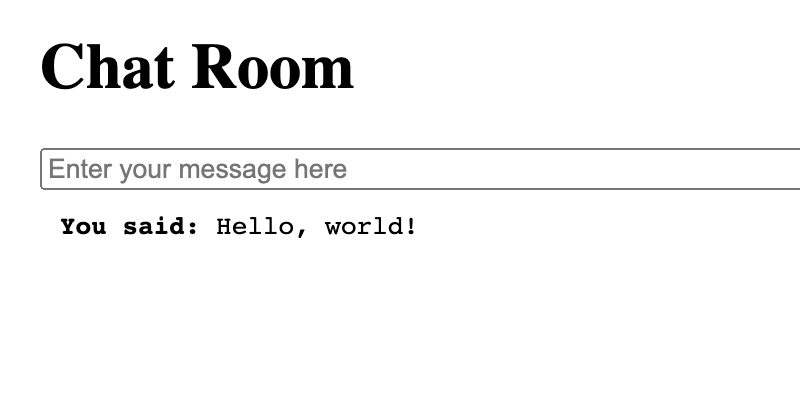
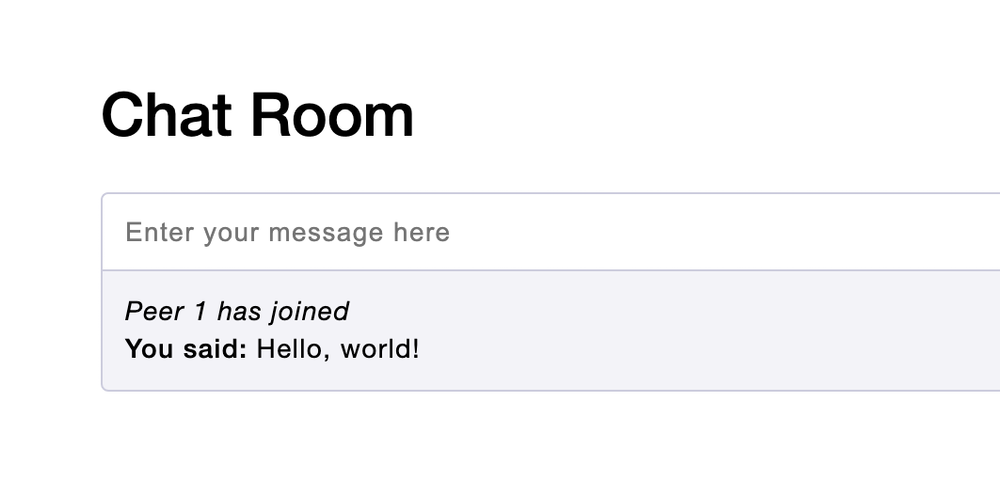
Rework the templates to be much nicer looking

diff --git a/static/templates/microblog-feed/index.html b/static/templates/microblog-feed/index.html
@@ -2,77 +2,7 @@
 <html>
   <head>
     <link rel="icon" type="image/png" sizes="32x32" href="/thumb.png">
-    <style>
-      body {
-        max-width: 680px;
-        margin: 0 auto;
-      }
-      microblog-composer {
-        display: block;
-        width: 500px;
-      }
-      microblog-composer p {
-        margin: 0 0 5px;
-      }
-      microblog-composer textarea,
-      microblog-composer input {
-        padding: 5px;
-      }
-      microblog-composer input {
-        margin-right: 10px;
-        border: 1px solid #bbb;
-      }
-      microblog-composer textarea {
-        width: 100%;
-        min-height: 60px;
-        box-sizing: border-box;
-      }
-      microblog-feed {
-        display: block;
-        margin: 1em 0;
-      }
-      .post {
-        display: grid;
-        grid-gap: 0;
-        grid-template-columns: 60px 1fr;
-        grid-template-rows: auto auto;
-        margin-bottom: 20px;
-      }
-      .post h1 { font-size: 21px; }
-      .post h2 { font-size: 20px; }
-      .post h3 { font-size: 19px; }
-      .post h4 { font-size: 18px; }
-      .post h5 { font-size: 17px; }
-      .post h6 { font-size: 16px; }
-      .post .thumb {
-        grid-row-start: 1;
-        grid-row-end: 3;
-      }
-      .post .thumb img {
-        width: 50px;
-        height: 50px;
-        object-fit: cover;
-      }
-      .post .meta {
-        margin-bottom: 5px;
-      }
-      .post .content {
-        min-height: 26px;
-      }
-      .post iframe.content {
-        width: 100%;
-      }
-      .post .content > * {
-        margin: 0;
-      }
-      .post .content > * + * {
-        margin-top: 1rem;
-      }
-      .post .content img,
-      .post .content video {
-        max-width: 100%;
-      }
-    </style>
+    <link rel="stylesheet" href="/index.css">
   </head>
   <body>
     <h1>My Feed</h1>

diff --git a/static/templates/microblog-feed/index.css b/static/templates/microblog-feed/index.css
@@ -1,0 +1,93 @@
+body {
+  max-width: 680px;
+  margin: 0 auto;
+  font-family: 'Segoe UI', Roboto, Oxygen, Ubuntu, Cantarell, 'Open Sans', 'Helvetica Neue', sans-serif;
+}
+a { text-decoration: none; }
+a:hover { text-decoration: underline; }
+h1 { font-weight: 500; }
+
+microblog-composer {
+  display: block;
+  margin-bottom: 30px;
+}
+microblog-composer p {
+  margin: 0 0 5px;
+}
+microblog-composer textarea,
+microblog-composer input {
+  font-family: inherit;
+  border: 1px solid #888;
+  border-radius: 3px;
+}
+microblog-composer input {
+  margin-right: 10px;
+  padding: 5px 10px;
+}
+microblog-composer textarea {
+  width: 100%;
+  min-height: 80px;
+  box-sizing: border-box;
+  padding: 10px;
+  resize: vertical;
+  line-height: 1.3;
+  font-size: 15px;
+}
+microblog-composer button {
+  border: 1px solid #888;
+  background: #fff;
+  border-radius: 3px;
+  height: 28px;
+  padding: 0 10px;
+  margin-right: 6px;
+  box-shadow: 0 1px 2px #00000017;
+}
+
+microblog-feed {
+  display: block;
+  margin: 1em 0;
+}
+.post {
+  display: grid;
+  grid-gap: 5px;
+  grid-template-columns: 60px 1fr;
+  grid-template-rows: auto auto;
+  margin-bottom: 30px;
+}
+.post h1 { font-size: 21px; }
+.post h2 { font-size: 20px; }
+.post h3 { font-size: 19px; }
+.post h4 { font-size: 18px; }
+.post h5 { font-size: 17px; }
+.post h6 { font-size: 16px; }
+.post .thumb {
+  grid-row-start: 1;
+  grid-row-end: 3;
+}
+.post .thumb img {
+  width: 50px;
+  height: 50px;
+  object-fit: cover;
+  border-radius: 4px;
+}
+.post .meta {
+  font-size: 13px;
+  color: #667;
+}
+.post .content {
+  min-height: 26px;
+  line-height: 1.3;
+}
+.post iframe.content {
+  width: 100%;
+}
+.post .content > * {
+  margin: 0;
+}
+.post .content > * + * {
+  margin-top: 0.5rem;
+}
+.post .content img,
+.post .content video {
+  max-width: 100%;
+}

diff --git a/themes/book/assets/_shortcodes.scss b/themes/book/assets/_shortcodes.scss
@@ -133,8 +133,7 @@
     }
 
     img {
-      width: 200px;
-      height: 100px;
+      width: 300px;
       object-fit: cover;
       object-position: top;
       border-right: 1px solid $gray-300;
@@ -168,6 +167,45 @@
 
     &:hover span.fa-fw {
       left: 0.6rem;
+    }
+  }
+
+  // {{< imgcard >}}
+  .imgcard {
+    display: flex;
+    align-items: center;
+    border: 1px solid $gray-400;
+    margin-bottom: 1rem;
+    color: $color-link;
+
+    &:hover {
+      text-decoration: none;
+      background: $gray-100;
+    }
+
+    img {
+      width: 500px;
+      object-fit: cover;
+      object-position: top;
+      border-right: 1px solid $gray-300;
+
+      @media (max-width: 530px) {
+        display: none;
+      }
+    }
+
+    span.fa-fw {
+      position: relative;
+      left: -20px;
+      margin-left: auto;
+      width: 5rem;
+      transition: left .2s;
+      font-size: 30px;
+      color: #ccd;
+    }
+
+    &:hover span.fa-fw {
+      left: -10px;
     }
   }
 

diff --git a/static/templates/chat-room/index.html b/static/templates/chat-room/index.html
@@ -10,14 +10,34 @@
     <style>
       body {
         margin: 20px;
+        font-family: 'Segoe UI', Roboto, Oxygen, Ubuntu, Cantarell, 'Open Sans', 'Helvetica Neue', sans-serif;
+      }
+      h1 {
+        font-weight: 500;
+      }
+      input, #output {
+        font-size: 14px;
+        letter-spacing: 0.7px;
+        padding: 12px;
+        border: 1px solid #ccd;
       }
       input {
-        width: 500px;
+        width: 100%;
+        box-sizing: border-box;
+        outline: 0;
+        border-bottom: 0;
+        border-top-left-radius: 4px;
+        border-top-right-radius: 4px;
       }
       #output {
+        border-bottom-left-radius: 4px;
+        border-bottom-right-radius: 4px;
         white-space: pre;
-        padding: 10px;
-        font-family: monospace;
+        background: #f3f3f8;
+        line-height: 1.4;
+      }
+      #output strong {
+        font-weight: 500;
       }
     </style>
     <script>

diff --git a/themes/book/assets/_custom.scss b/themes/book/assets/_custom.scss
@@ -55,9 +55,10 @@
 
 .template-thumb {
   display: block;
-  width: 400px;
+  width: 100%;
   margin: 2rem 0 1rem;
-  border: 1px solid $gray-400;
+  border-radius: 4px;
+  border: 1px solid $gray-600;
 }
 
 button.create-drive {
@@ -65,10 +66,10 @@ button.create-drive {
   color: #fff;
   border: 0;
   background: $color-link;
-  box-shadow: 0 1px 2px #0004;
+  box-shadow: 0 0 0 #0004;
   border-radius: 4px;
-  padding: 8px 0;
-  margin: 0 0 1rem;
+  padding: 12px 0;
+  margin: 0 auto 1rem;
   width: 400px;
   max-width: 100%;
   text-align: center;

diff --git a/themes/book/layouts/shortcodes/imgcard.html b/themes/book/layouts/shortcodes/imgcard.html
@@ -1,0 +1,16 @@
+{{ $ref := "" }}
+{{ with .Get "href" }}
+  {{ $ref = . }}
+{{ end }}
+{{ with .Get "relref" }}
+  {{ $ref = relref $ . }}
+{{ end }}
+<a href="{{ $ref }}" class="imgcard">
+  {{ if .Get "img" }}
+    <img src="{{ .Get "img" }}">
+  {{ end }}
+  {{ $.Inner }}
+  {{ if .Get "icon" }}
+    <span class="fa-fw {{ .Get "icon" }}"></span>
+  {{ end }}
+</a>

diff --git a/static/templates/video-chat/index.html b/static/templates/video-chat/index.html
@@ -5,6 +5,10 @@
     <style>
       body {
         margin: 20px;
+        font-family: 'Segoe UI', Roboto, Oxygen, Ubuntu, Cantarell, 'Open Sans', 'Helvetica Neue', sans-serif;
+      }
+      h1 {
+        font-weight: 500;
       }
       #videos {
         display: grid;

diff --git a/content/docs/templates.md b/content/docs/templates.md
@@ -1,29 +1,17 @@
 ---
-title: Templates
+title: Hyperdrive Templates
 ---
 
 Templates are a quick way to start with new apps and projects.
 
-{{< linkcard relref="./templates/simple-cms" img="/templates/simple-cms.png" icon="fas fa-arrow-right" >}}
-  Simple CMS
-{{< /linkcard >}}
+{{< imgcard relref="./templates/photo-album" img="/templates/photo-album.png" icon="fas fa-arrow-right" >}}
+{{< /imgcard >}}
 
-{{< linkcard relref="./templates/multiuser-wiki" img="/templates/multiuser-wiki.png" icon="fas fa-arrow-right" >}}
-  Multi-user Wiki
-{{< /linkcard >}}
+{{< imgcard relref="./templates/chat-room" img="/templates/chat-room.png" icon="fas fa-arrow-right" >}}
+{{< /imgcard >}}
 
-{{< linkcard relref="./templates/microblog-feed" img="/templates/microblog-feed.png" icon="fas fa-arrow-right" >}}
-  Microblog Feed
-{{< /linkcard >}}
+{{< imgcard relref="./templates/microblog-feed" img="/templates/microblog-feed.png" icon="fas fa-arrow-right" >}}
+{{< /imgcard >}}
 
-{{< linkcard relref="./templates/photo-album" img="/templates/photo-album.png" icon="fas fa-arrow-right" >}}
-  Photo Album
-{{< /linkcard >}}
-
-{{< linkcard relref="./templates/chat-room" img="/templates/chat-room.png" icon="fas fa-arrow-right" >}}
-  Chat Room
-{{< /linkcard >}}
-
-{{< linkcard relref="./templates/video-chat" img="/templates/video-chat.png" icon="fas fa-arrow-right" >}}
-  Video Chat
-{{< /linkcard >}}
+{{< imgcard relref="./templates/video-chat" img="/templates/video-chat.png" icon="fas fa-arrow-right" >}}
+{{< /imgcard >}}

diff --git a/content/docs/templates/multiuser-wiki.md b/content/docs/templates/multiuser-wiki.md
@@ -13,8 +13,7 @@ title: Multi-user Wiki Template
   window.TEMPLATE_FILES = [
     '/ui/ui.html',
     '/ui/ui.js',
-    '/ui/util.js',
-    '/ui/markdown-it.js'
+    '/ui/util.js'
   ]
 </script>
 <script src="/templates/index.js"></script>

diff --git a/content/docs/templates/microblog-feed.md b/content/docs/templates/microblog-feed.md
@@ -13,7 +13,7 @@ title: Microblog Feed Template
   window.TEMPLATE_FILES = [
     '/index.html',
     '/index.js',
-    '/markdown-it.js'
+    '/index.css'
   ]
 </script>
 <script src="/templates/index.js"></script>
